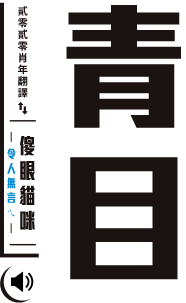
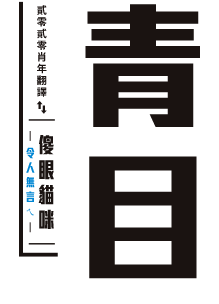
de

Changed region(s): [[0.0, 0.0, 0.2688, 1.0], [0.3495, 0.0, 0.9946, 0.4455], [0.3763, 0.505, 0.9677, 0.9505]]

diff --git a/css/style.css b/css/style.css
@@ -649,16 +649,19 @@ body{
 .box .voice{
     width: 11.5%;
     position: absolute;
-    bottom: 11%;
-    left: 25%;
+    bottom: 13%;
+    left: 28%;
     cursor: pointer;
+}
+.box .voc13{
+    left: 27%;
 }
 .box .dialoectTexet{
     width: 50%;
     position: relative;
     margin: 0 auto;
-    margin-top: 50px;
-    margin-bottom: 45px;
+    margin-top: 80px;
+    margin-bottom: 65px;
     /* cursor: pointer; */
 }
 .getdown{
@@ -1137,6 +1140,7 @@ footer{
 #myResult{
     width: 100%; 
     background-color: #fff;
+    box-shadow:0px 0px 9px #000;
 }
 .mbBlock{
     display: none;
@@ -1357,9 +1361,12 @@ footer{
     .box .voice {
         width: 11.5%;
         position: absolute;
-        bottom: 13%;
-        left: 25%;
+        bottom: 17%;
+        left: 28%;
         cursor: pointer;
+    }
+    .box .voc13{
+        left: 27%;
     }
 }
 @media screen and (max-width: 992px){
@@ -1847,15 +1854,18 @@ footer{
         width: 11.5%;
         position: absolute;
         bottom: 24.5%;
-        left: 25%;
+        left: 28%;
         cursor: pointer;
+    }
+    .box .voc13{
+        left: 27%;
     }
     .box .dialoectTexet{
         width: 50%;
         position: relative;
         margin: 0 auto;
-        margin-top: 30px;
-        margin-bottom: 17vh;
+        margin-top: 60px;
+        margin-bottom: 15vh;
         /* cursor: pointer; */
     }
     /* 結果 */
@@ -1979,7 +1989,7 @@ footer{
         width: 50%;
         position: relative;
         margin: 0 auto;
-        margin-top: 30px;
+        margin-top: 60px;
         margin-bottom: 15vh;
         /* cursor: pointer; */
     }
@@ -2001,8 +2011,11 @@ footer{
         width: 11.5%;
         position: absolute;
         bottom: 23%;
-        left: 25%;
+        left: 28%;
         cursor: pointer;
+    }
+    .box .voc13{
+        left: 27%;
     }
     .smoke_right{
         top: 100px;
@@ -2012,5 +2025,8 @@ footer{
         width: 90%;
         margin-top: 18vh;
         margin-bottom: 0;
+    }
+    .resiltImg{
+        width: 100%;
     }
 }

diff --git a/index.html b/index.html
@@ -191,7 +191,7 @@
         <div id="myHakkaMb" class="single-item-mb slick_mt2 hakka_bg">
           <div class="box">
             <img src="img/dialoect/dialect_hakka_03.png" alt="" class="dialoectTexet">
-            <img src="img/dialoect/voice.png" alt="" class="voice" onclick="voice(13)">
+            <img src="img/dialoect/voice.png" alt="" class="voice voc13" onclick="voice(13)">
           </div>
           <div class="box">
             <img src="img/dialoect/dialect_hakka_01.png" alt="" class="dialoectTexet">
